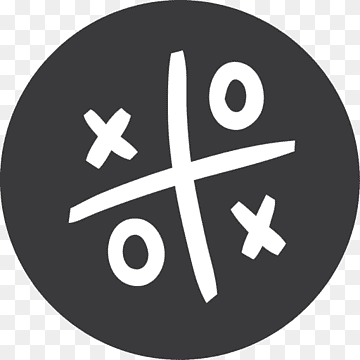
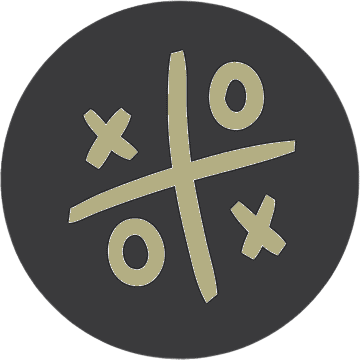
Mouse setup

diff --git a/Client/src/main/java/com/client/gui/defs/Cursor.java b/Client/src/main/java/com/client/gui/defs/Cursor.java
@@ -9,7 +9,7 @@ public class Cursor {
     public static void setCursor(Scene scene) {
 
         // Load a custom cursor image
-        Image cursorImage = new Image("file:src\\main\\images\\Cursor.png");
+        Image cursorImage = new Image("file:src\\main\\images\\iconball.png");
 
         // Create a custom cursor with the image and hotspot
         ImageCursor customCursor = new ImageCursor(cursorImage, cursorImage.getWidth() / 1.75, cursorImage.getHeight() / 1.8);
